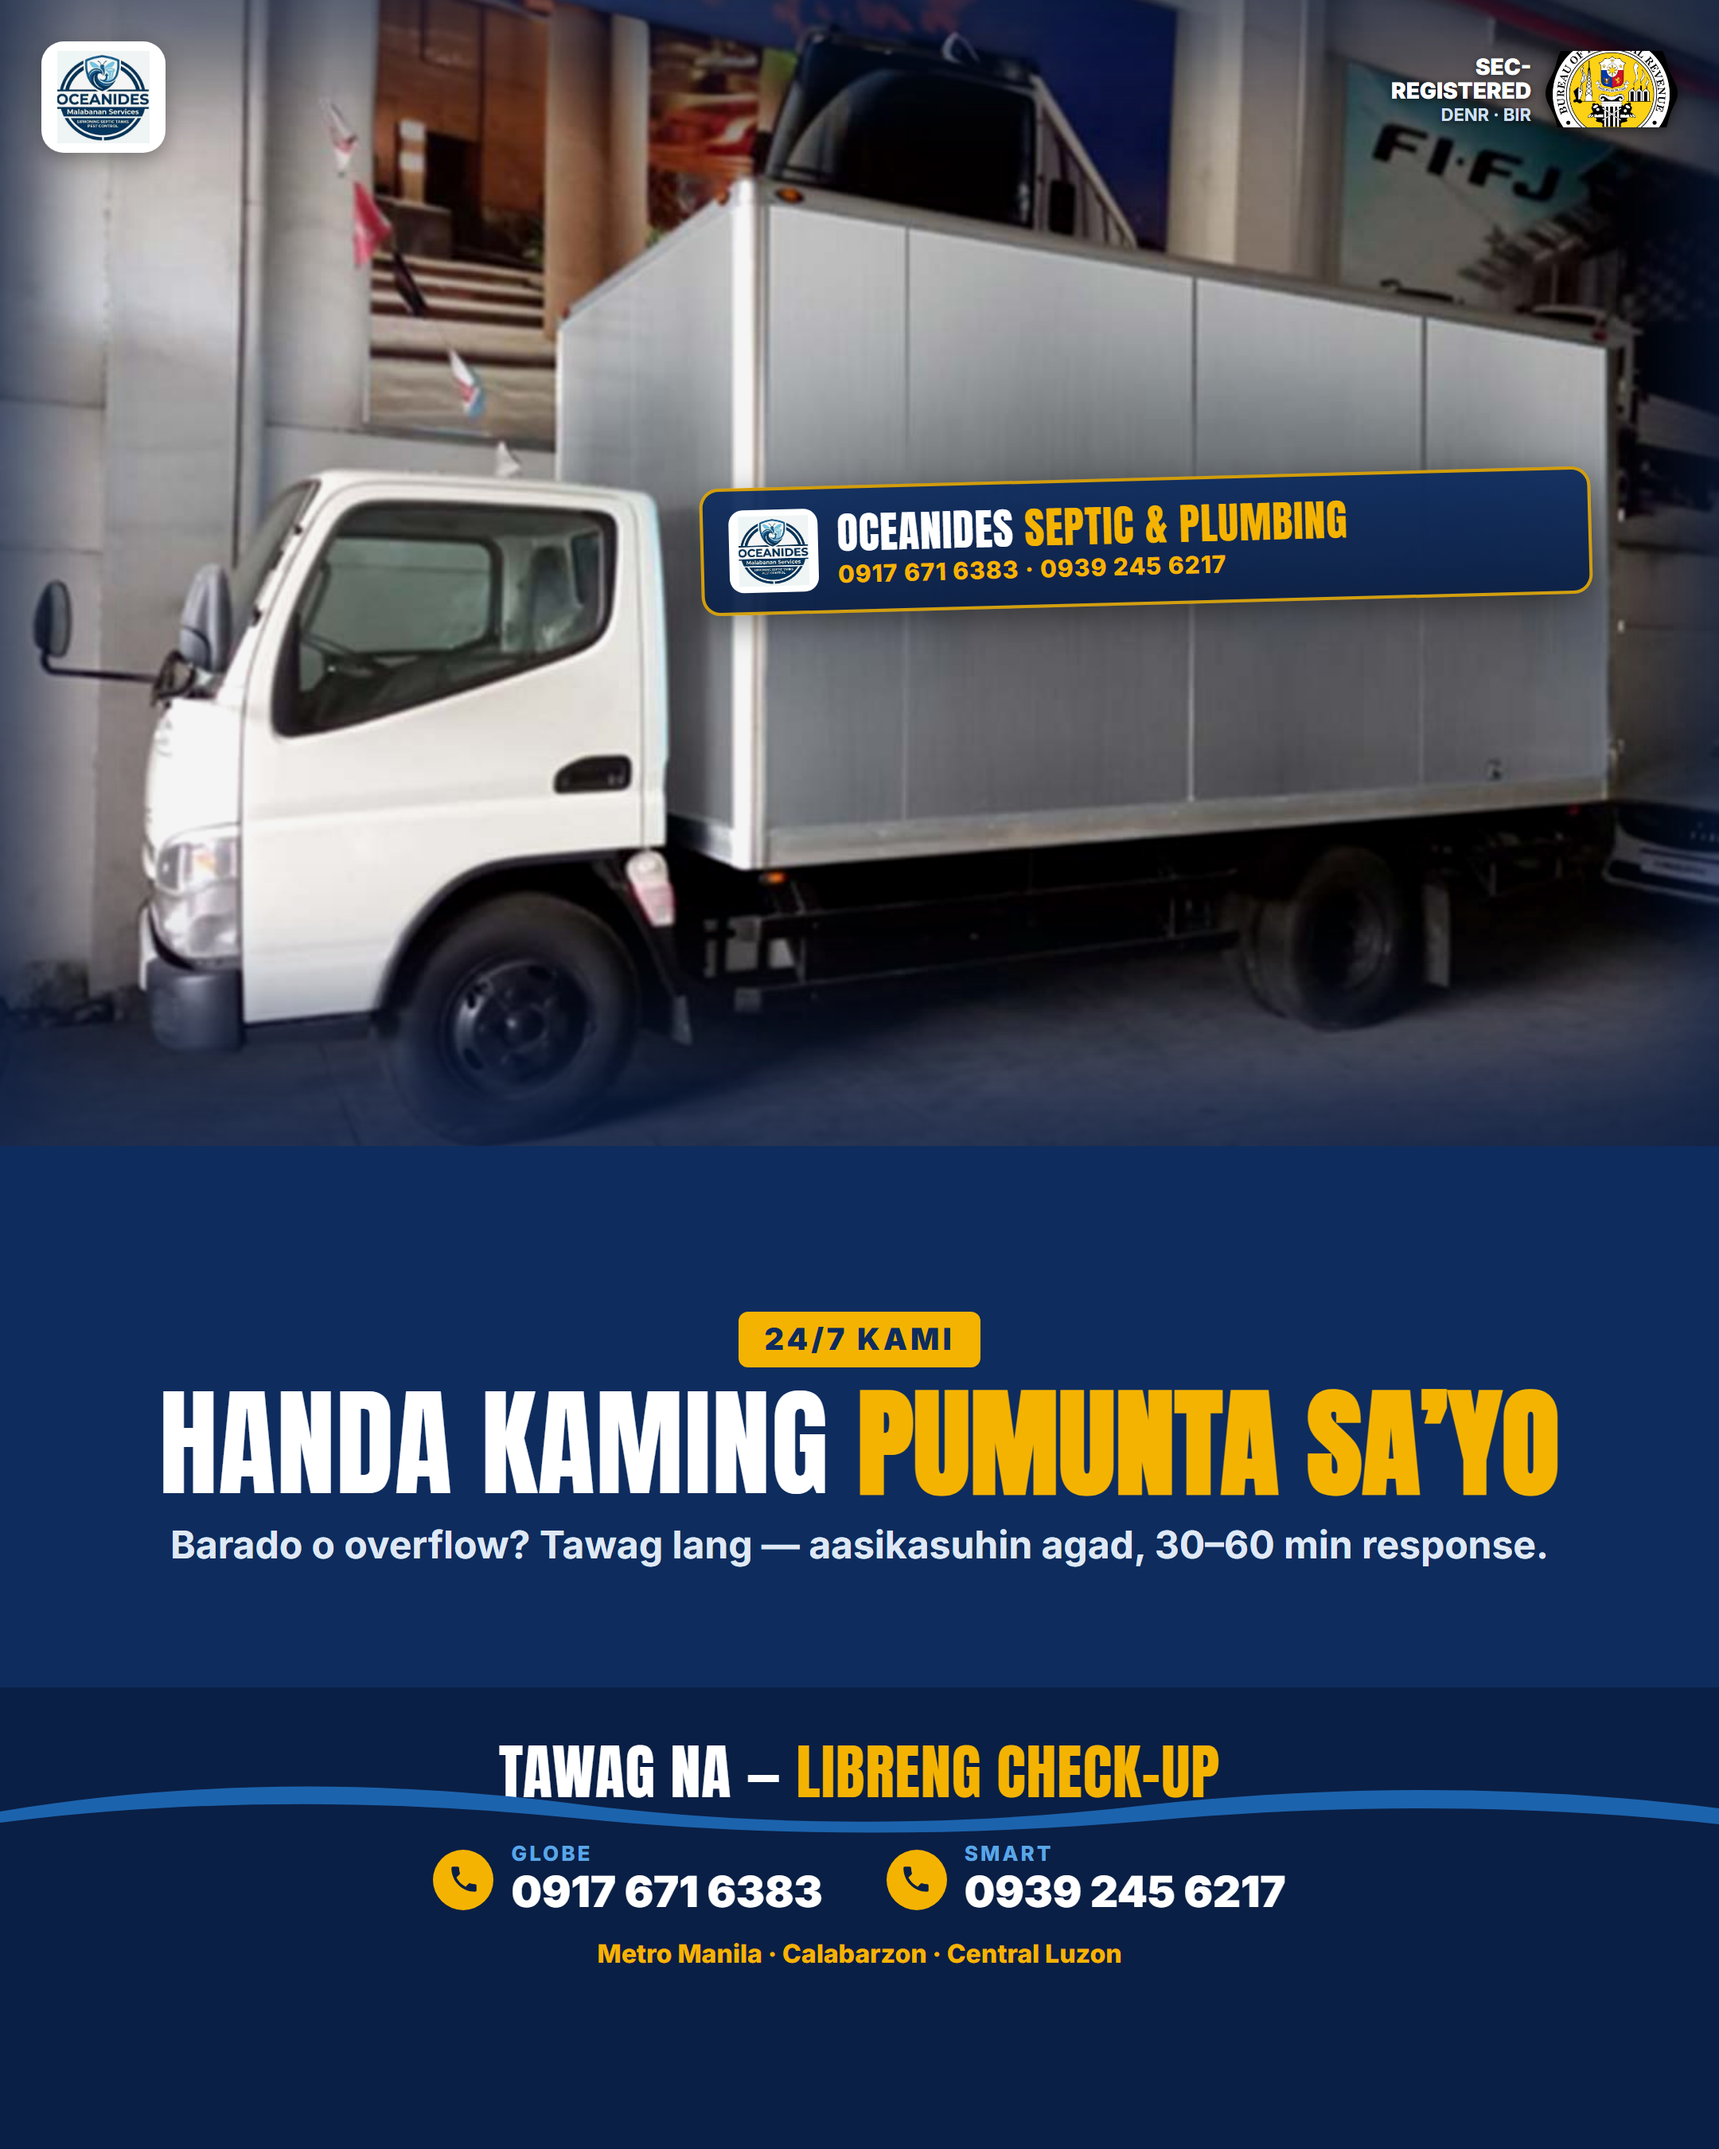
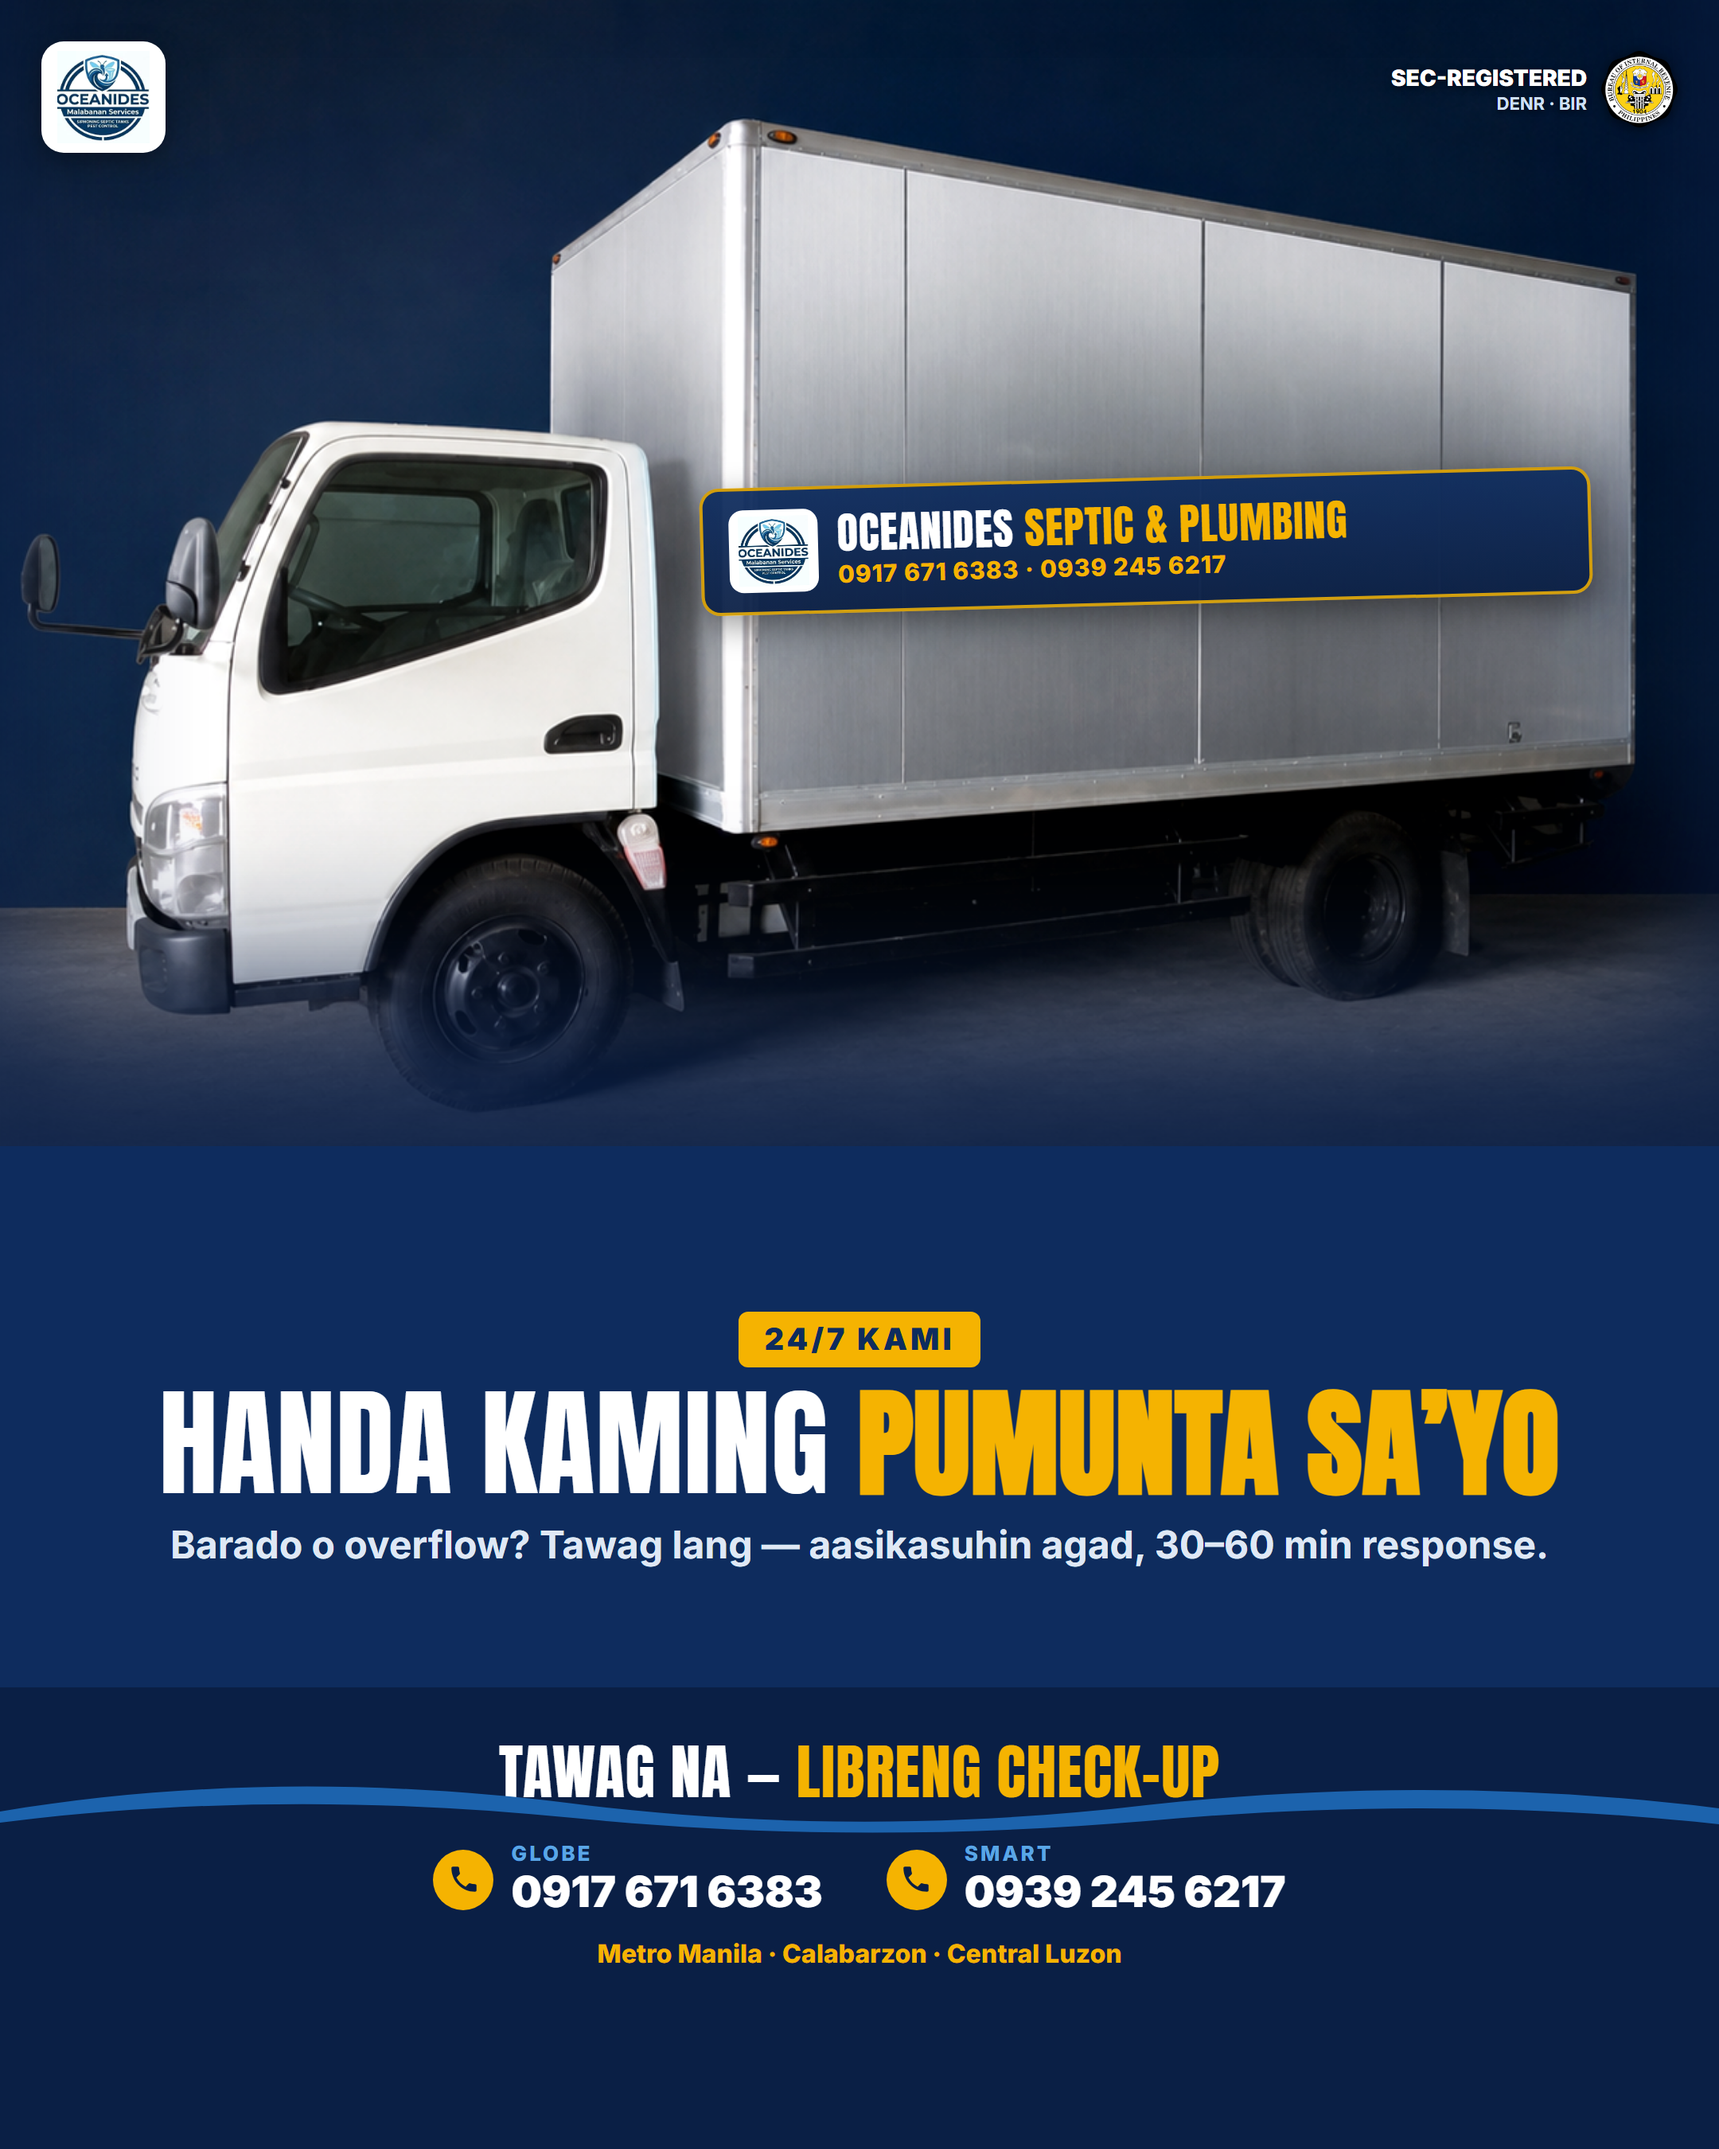
Real van on clean navy bg (bg-swapped via codex-edit) as 24/7 hero; retire wrong-tanker 24-7

Changed region(s): [[0.0, 0.0, 1.0, 0.5289]]

diff --git a/clients/oceanides/templates/trust-van.html b/clients/oceanides/templates/trust-van.html
@@ -9,12 +9,12 @@
 #canvas{width:1080px;height:1350px;position:relative;overflow:hidden;font-family:var(--body);background:var(--navy);-webkit-font-smoothing:antialiased;display:flex;flex-direction:column}
 /* PHOTO PANEL */
 .photo{position:relative;height:720px;flex:0 0 720px;overflow:hidden;background:#111}
-.photo img{width:100%;height:100%;object-fit:cover;object-position:center 42%;filter:contrast(1.04) saturate(1.02) brightness(.96)}
-.photo::after{content:"";position:absolute;inset:0;box-shadow:inset 0 -70px 90px rgba(10,31,69,.85), inset 0 40px 70px rgba(10,31,69,.55)}
+.photo img{width:100%;height:100%;object-fit:cover;object-position:center 48%;filter:contrast(1.03) saturate(1.02)}
+.photo::after{content:"";position:absolute;inset:0;box-shadow:inset 0 -95px 110px rgba(10,31,69,.97)}
 .logo-chip{position:absolute;top:26px;left:26px;z-index:6;background:#fff;border-radius:14px;padding:6px 10px;box-shadow:0 4px 14px rgba(0,0,0,.35)}
 .logo-chip img{height:58px;display:block}
 .legit{position:absolute;top:32px;right:26px;z-index:6;display:flex;align-items:center;gap:9px}
-.legit .t{text-align:right;line-height:1.1}.legit .c{font-weight:900;font-size:14px;color:#fff;text-transform:uppercase;text-shadow:0 1px 4px rgba(0,0,0,.6)}
+.legit .t{text-align:right;line-height:1.1}.legit .c{font-weight:900;font-size:14px;color:#fff;text-transform:uppercase;white-space:nowrap;text-shadow:0 1px 4px rgba(0,0,0,.6)}
 .legit .s{font-size:11px;font-weight:700;color:#cfe0f5;text-transform:uppercase;margin-top:2px;text-shadow:0 1px 3px rgba(0,0,0,.6)}
 .legit img{height:48px;filter:drop-shadow(0 1px 4px rgba(0,0,0,.6))}
 /* DIGITAL DECAL BAND on the aluminum side */
@@ -48,7 +48,7 @@
 </style></head><body>
 <div id="canvas">
   <div class="photo">
-    <img src="../assets/van.jpg" alt=""/>
+    <img src="../assets/van-clean.png" alt=""/>
     <div class="logo-chip"><img src="../assets/logo.jpg" alt="Oceanides"/></div>
     <div class="legit"><div class="t"><div class="c">SEC-Registered</div><div class="s">DENR &middot; BIR</div></div><img src="../assets/badge-bir.png" alt="BIR"/></div>
     <div class="decal">
